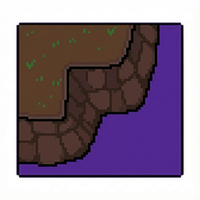
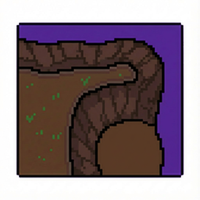
Regenerate corner-in SE/SW with updated prompts

diff --git a/scripts/generate_assets.py b/scripts/generate_assets.py
@@ -61,11 +61,11 @@ CORNER_IN_ORIENTATIONS = [
     ),
     (
         "se",
-        "Concave (innie) corner: cliff runs in from the west edge and turns toward the north edge. Low/drop is outside the corner on S+E; high ground/rim with grass is inside the corner in the northwest quadrant.",
+        "Concave (innie) corner: cliff legs run along the south and east edges. Low/drop is outside the corner on S+E; high ground/rim with grass is inside the corner in the northwest quadrant.",
     ),
     (
         "sw",
-        "Concave (innie) corner: cliff runs in from the east edge and turns toward the north edge. Low/drop is outside the corner on S+W; high ground/rim with grass is inside the corner in the northeast quadrant.",
+        "Concave (innie) corner: cliff legs run along the south and west edges. Low/drop is outside the corner on S+W; high ground/rim with grass is inside the corner in the northeast quadrant.",
     ),
 ]
 
